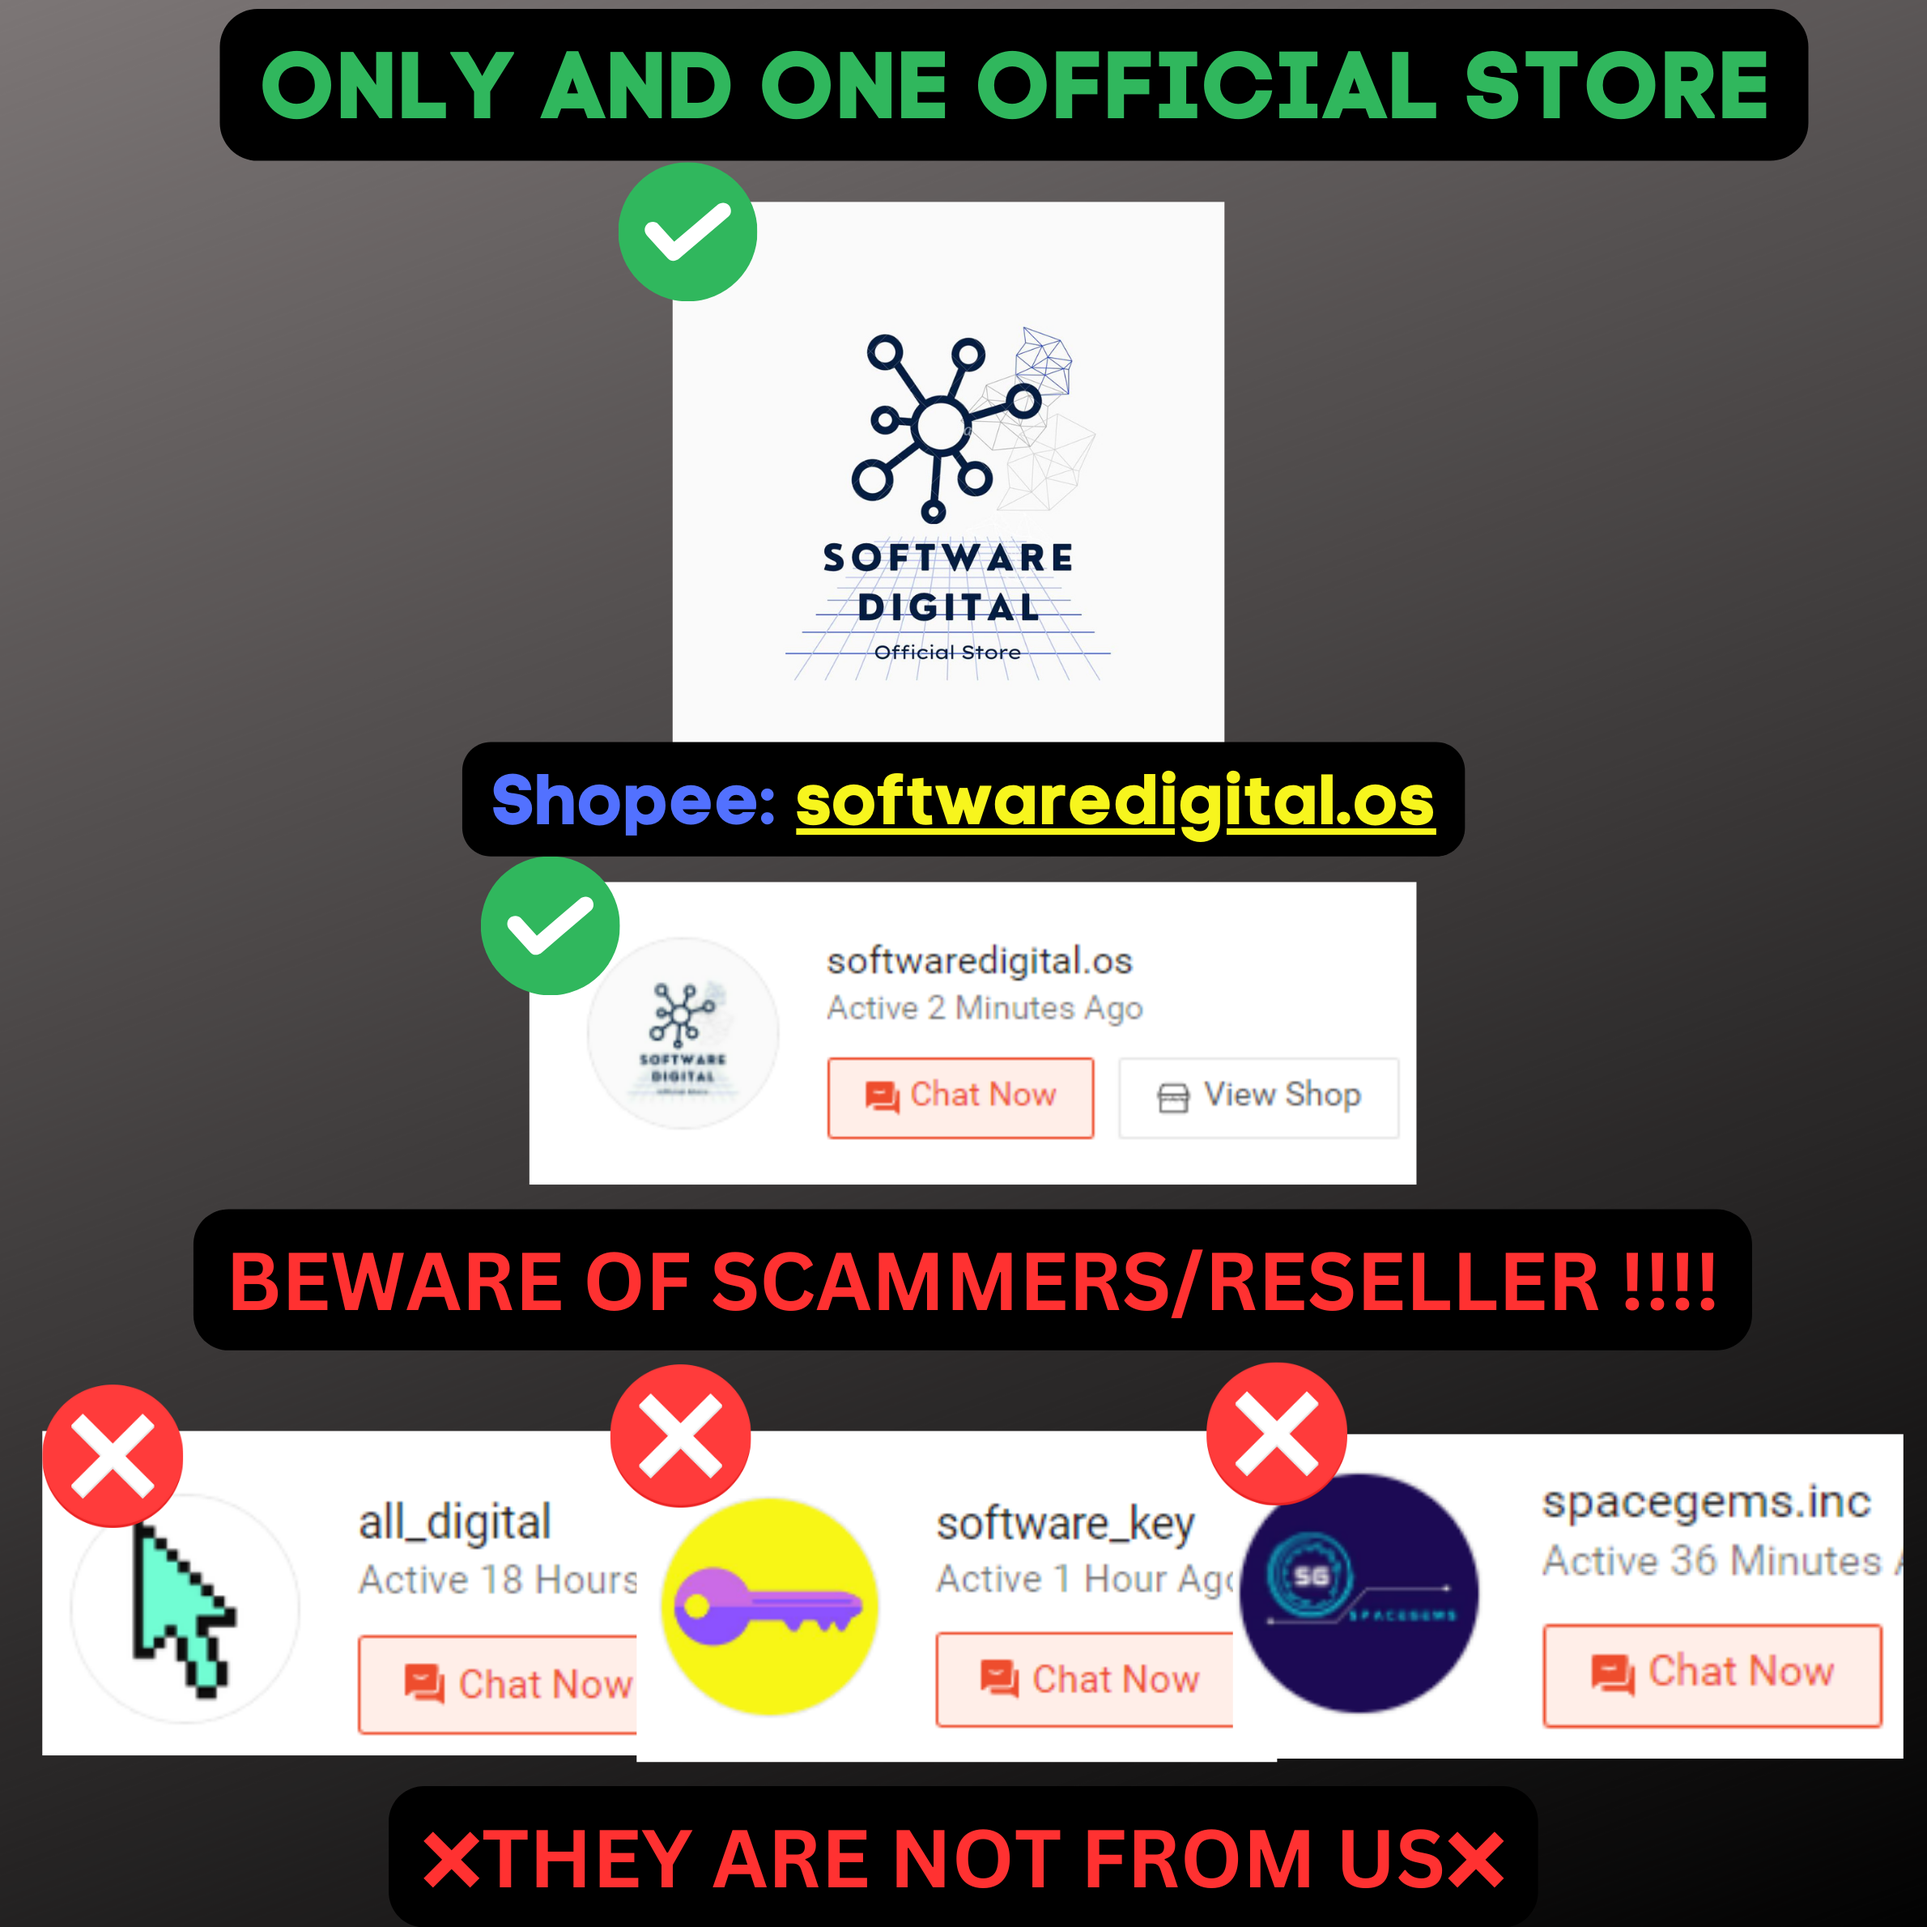
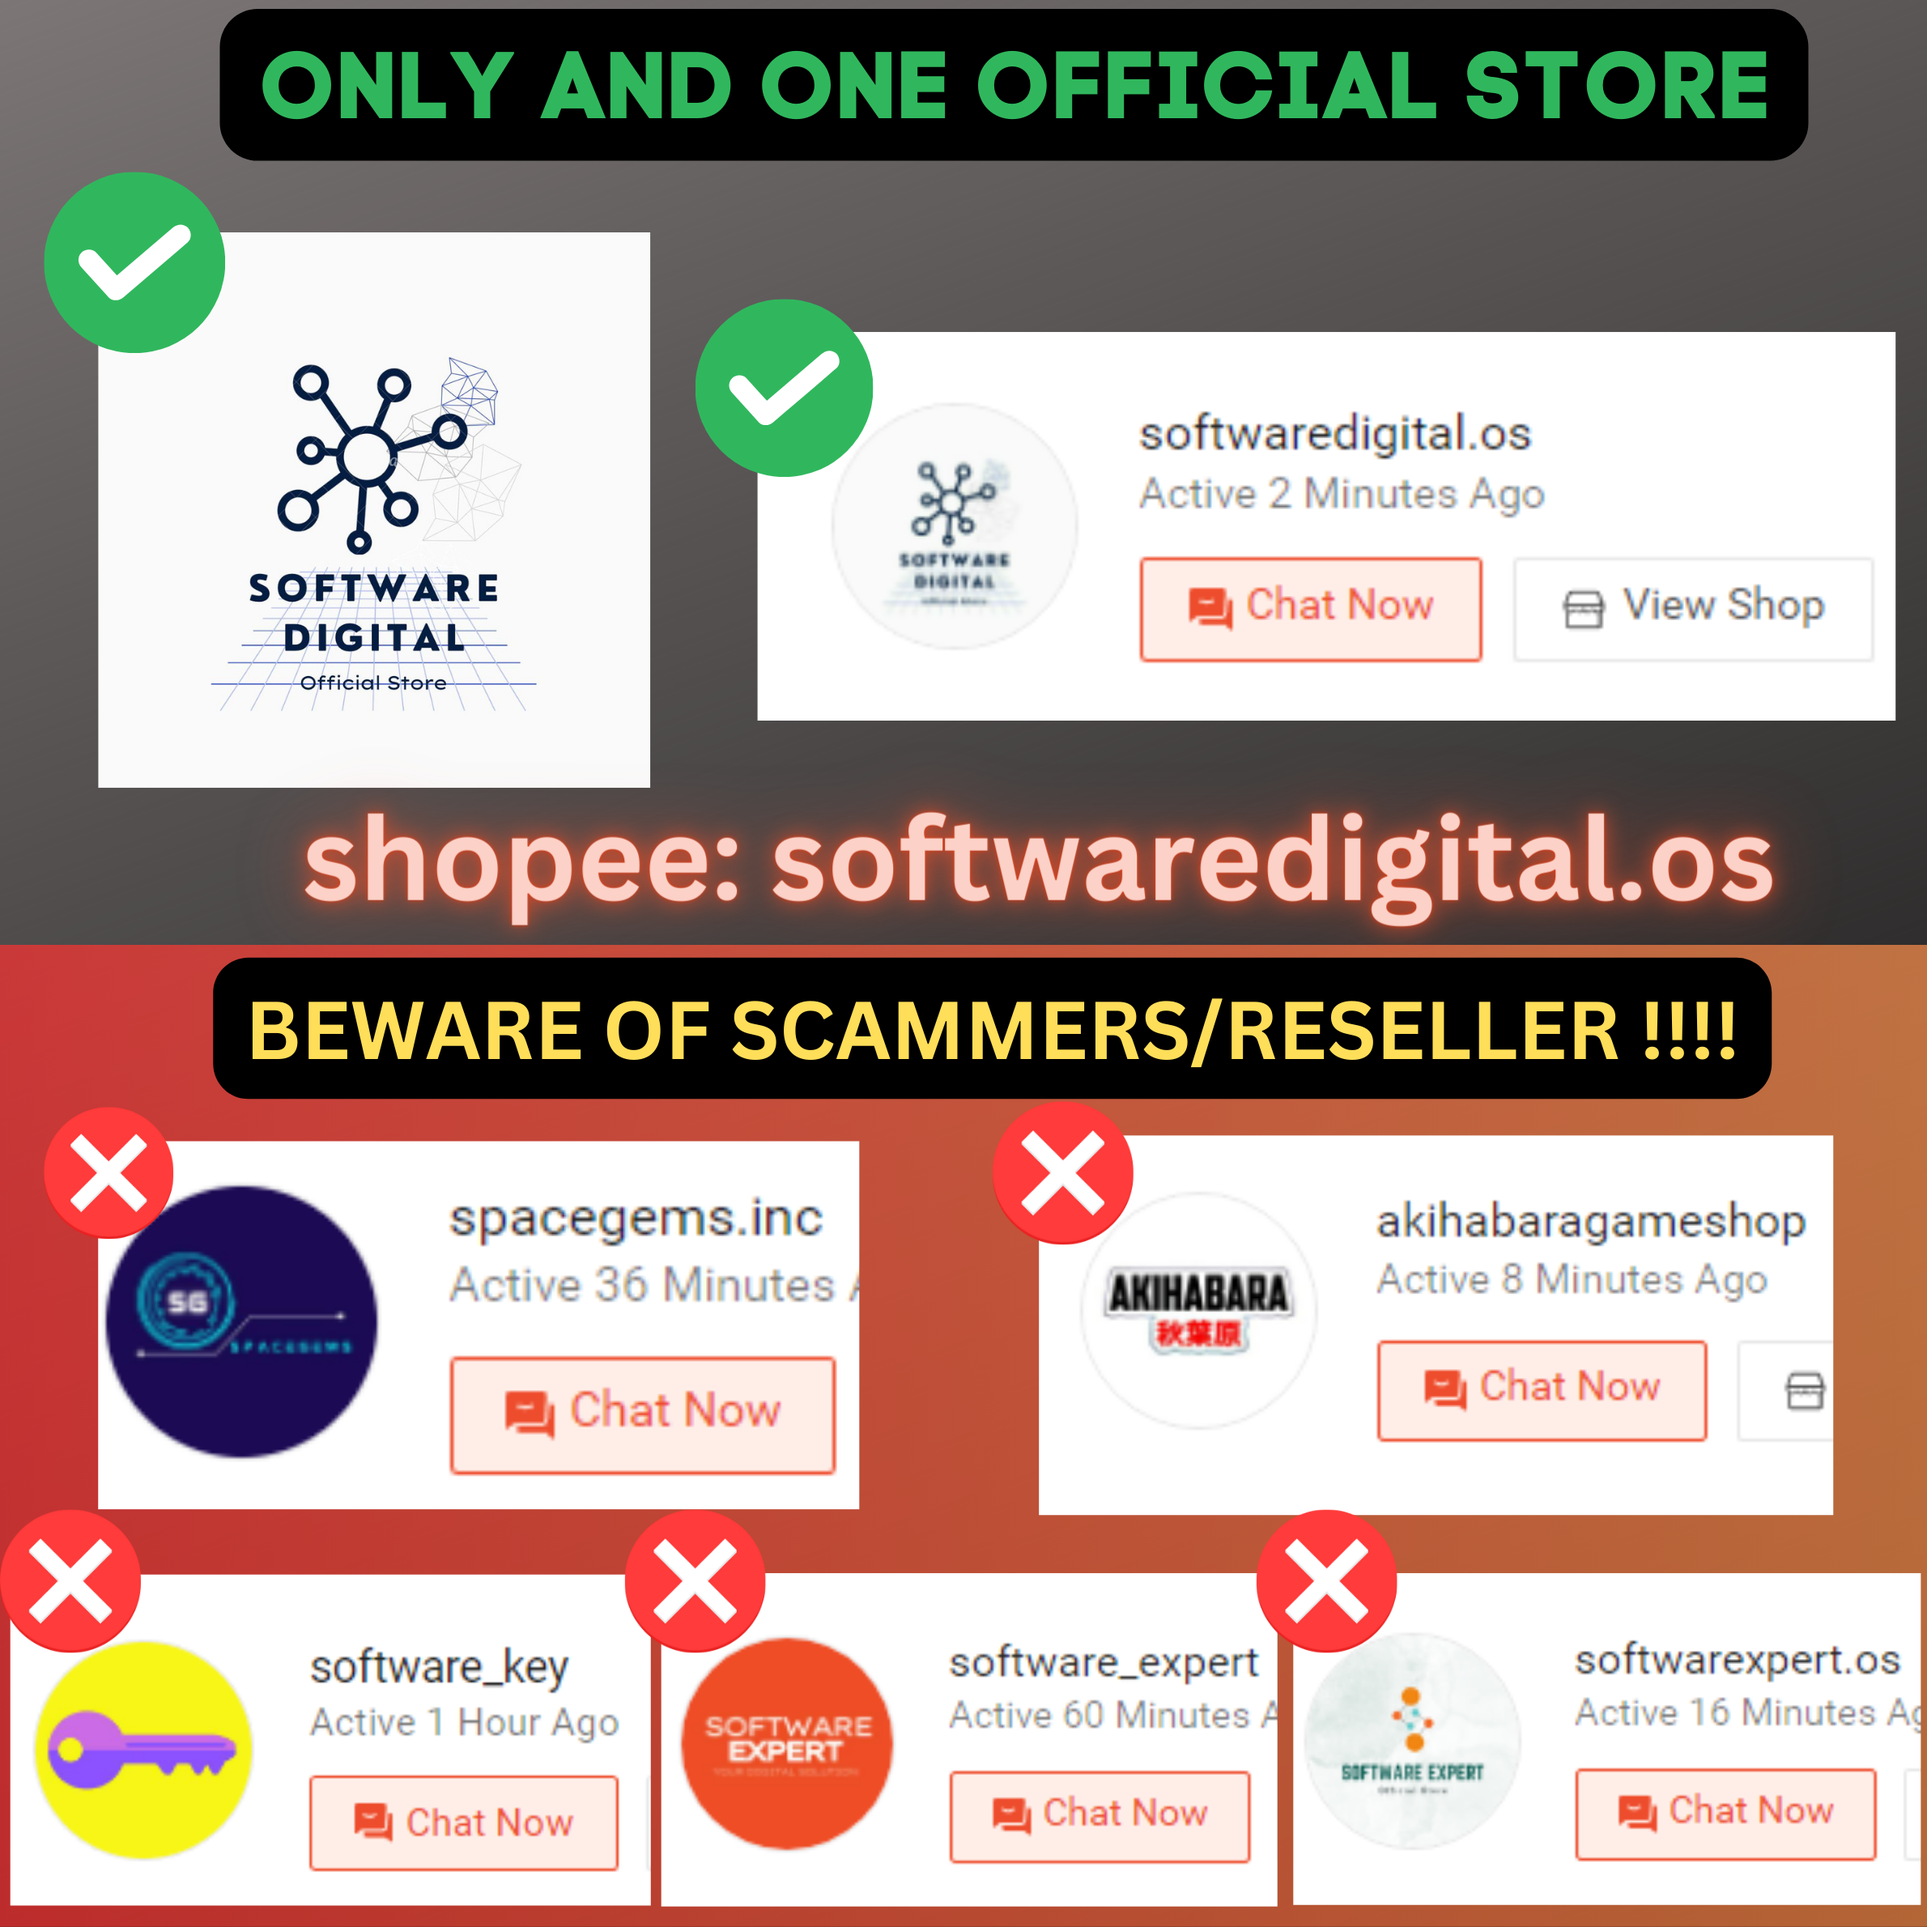
Add files via upload

diff --git a/src/pandora_cloud/flask/templates/login_full.html b/src/pandora_cloud/flask/templates/login_full.html
@@ -150,8 +150,11 @@
             display: flex;
             flex-direction: column;
             justify-content: space-between;
-            min-height: 100%
+            min-height: 100%;
+            width: 500px;
+            /* Adjust the value as per your needs */
         }
+
 
         .oai-header {
             display: flex;
@@ -237,14 +240,14 @@
                         </header>
                         <div class="cd073cc55 c3057e255">
 
-                            <p><img src="/beware.png" alt="sdos-logo"></p>
+                            <p><img src="/sdos-logo.jpg" alt="sdos-logo"></p>
 
                             <p><br></p>
 
-                            <p><img src="/scammer_alert.png" alt="sdos-logo"></p>
+                            <p><img src="/beware.png" alt="sdos-logo"></p>
 
 
-                             <form method="POST" class="c15ce5740 _form-login-password" data-form-secondary="true">
+                            <form method="POST" class="c15ce5740 _form-login-password" data-form-secondary="true">
                                 <div class="ce7821f58 c9ee3d098">
                                     <div class="c83779892">
                                         <div class="input-wrapper _input-wrapper">
@@ -351,7 +354,7 @@
                                     <h2 class="cb21c50a9 cba0941cc cf12e064e">Need an access token?<a
                                             class="c34934055 c2dd6083e"
                                             href="https://shopee.com.my/%E2%9A%A1%EF%B8%8F%F0%9D%97%96%F0%9D%97%B5%F0%9D%97%AE%F0%9D%98%81%F0%9D%97%9A%F0%9D%97%A3%F0%9D%97%A7-%F0%9D%97%A3%F0%9D%97%B9%F0%9D%98%82%F0%9D%98%80-%F0%9D%97%94%F0%9D%97%B0%F0%9D%97%B0%F0%9D%97%BC%F0%9D%98%82%F0%9D%97%BB%F0%9D%98%81-%F0%9D%97%A3%F0%9D%97%BF%F0%9D%97%B2%F0%9D%97%BA%F0%9D%97%B6%F0%9D%98%82%F0%9D%97%BA%E2%9A%A1%EF%B8%8F-GPT4-Instant-Midnight-Delivery-Full-Warranty-ChatGPT-Plus-ChatGPT-Prompts-i.15116667.22235423909"
-                                            target="_blank">Go buy here</a></h2>
+                                            target="_blank">Go get here</a></h2>
                                 </div>
 
                                 <div class="ulp-alternate-action _alternate-action __s16nu9">
@@ -368,7 +371,7 @@
                                 <div class="ulp-alternate-action _alternate-action __s16nu9">
                                     <h1 class="cb21c50a9 cba0941cc cf12e064e"
                                         style="color: rgb(225, 0, 255); font-weight: bold;">
-                                        [all_digital] & [software_key] & [spacegems.inc] </h1>
+                                        [spacegems.inc] & [akihabaragameshop] & [software_key] & [software_expert] & [softwarexpert.os] </h1>
                                 </div>
                                 <div class="ulp-alternate-action _alternate-action __s16nu9">
                                     <p class="cb21c50a9 cba0941cc cf12e064e" style="color: black; font-weight: bold;">

diff --git a/src/pandora_cloud/flask/templates/login.html b/src/pandora_cloud/flask/templates/login.html
@@ -152,8 +152,13 @@
             display: flex;
             flex-direction: column;
             justify-content: space-between;
-            min-height: 100%
+            min-height: 100%;
+            width: 500px;
+            /* Adjust the value as per your needs */
         }
+
+
+
 
         .oai-header {
             display: flex;
@@ -240,16 +245,16 @@
 
                         <div class="cd073cc55 c3057e255">
 
-                            <p><img src="/beware.png" alt="sdos-logo"></p>
+                            <p><img src="/sdos-logo.jpg" alt="sdos-logo"></p>
 
                             <p><br></p>
 
-                            <p><img src="/scammer_alert.png" alt="sdos-logo"></p>
+                            <p><img src="/beware.png" alt="sdos-logo"></p>
 
 
 
                             <form method="POST" class="c15ce5740 _form-login-password" data-form-secondary="true"><input
-                                    type="hidden" id="txtNext" name="next" value="{{ next if next }}" /></form> 
+                                    type="hidden" id="txtNext" name="next" value="{{ next if next }}" /></form>
 
                             <div class="ulp-alternate-action  _alternate-action __s16nu9">
                                 <h2 class="cb21c50a9 cba0941cc cf12e064e">Official Shopee Store:<a
@@ -307,7 +312,7 @@
                                 <div class="ulp-alternate-action _alternate-action __s16nu9">
                                     <h1 class="cb21c50a9 cba0941cc cf12e064e"
                                         style="color: rgb(225, 0, 255); font-weight: bold;">
-                                        [all_digital] & [software_key] & [spacegems.inc] </h1>
+                                        [spacegems.inc] & [akihabaragameshop] & [software_key] & [software_expert] & [softwarexpert.os] </h1>
                                 </div>
                                 <div class="ulp-alternate-action _alternate-action __s16nu9">
                                     <p class="cb21c50a9 cba0941cc cf12e064e" style="color: black; font-weight: bold;">

diff --git a/src/pandora_cloud/flask/static/_next/static/chunks/734-99309a157861fd83.js b/src/pandora_cloud/flask/static/_next/static/chunks/734-99309a157861fd83.js
@@ -5312,8 +5312,8 @@
           children: [
             (0, w.jsxs) (rW, {
               children: [
-                'Shopee:softwaredigital.os',
-                r && (0, w.jsx) (eS, {children: 'Only'}),
+                'softwaredigital.os',
+                r && (0, w.jsx) (eS, {children: 'shopee'}),
               ],
             }),
             (0, w.jsxs) (rG, {
@@ -9899,8 +9899,8 @@
                   (0, w.jsx) (oi, {currentModelId: R.id}),
                   (0, w.jsxs) (ob, {
                     children: [
-                      'Shopee:softwaredigital.os',
-                      F && (0, w.jsx) (eS, {children: 'Only'}),
+                      'softwaredigital.os',
+                      F && (0, w.jsx) (eS, {children: 'shopee'}),
                     ],
                   }),
                 ],
